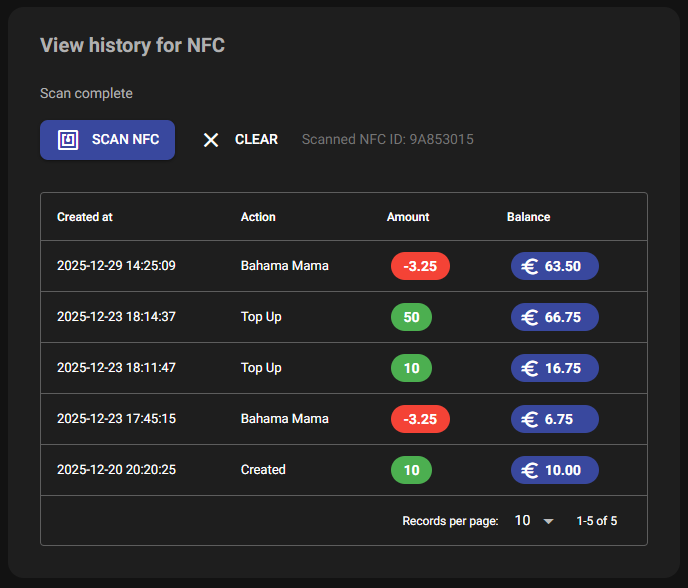
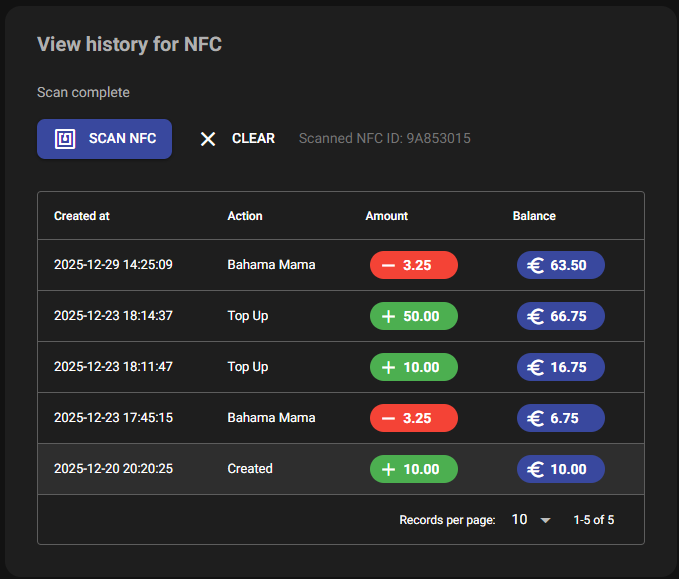
make chips same size per column

diff --git a/src/frontend/tabs/history_tab.py b/src/frontend/tabs/history_tab.py
@@ -23,16 +23,16 @@ TABLE_COLUMNS: list[dict[str, Any]] = [
 
 AMOUNT_SLOT = """
 <q-td :props="props">
-    <q-chip :color="props.value < 0 ? 'red' : 'green'" class="text-bold">
-        {{ props.value }}
+    <q-chip :icon="props.value < 0 ? 'remove' : 'add'" :color="props.value < 0 ? 'red' : 'green'" class="min-w-22 text-bold">
+        {{ Math.abs(props.value).toFixed(2) }}
     </q-chip>
 </q-td>
-"""
+"""  # noqa: E501
 
 BALANCE_SLOT = """
 <q-td :props="props">
     <q-chip icon="euro" color="primary" class="min-w-22 text-bold">
-        {{ props.row.current_balance.toFixed(2) }}
+        {{ props.value.toFixed(2) }}
     </q-chip>
 </q-td>
 """
